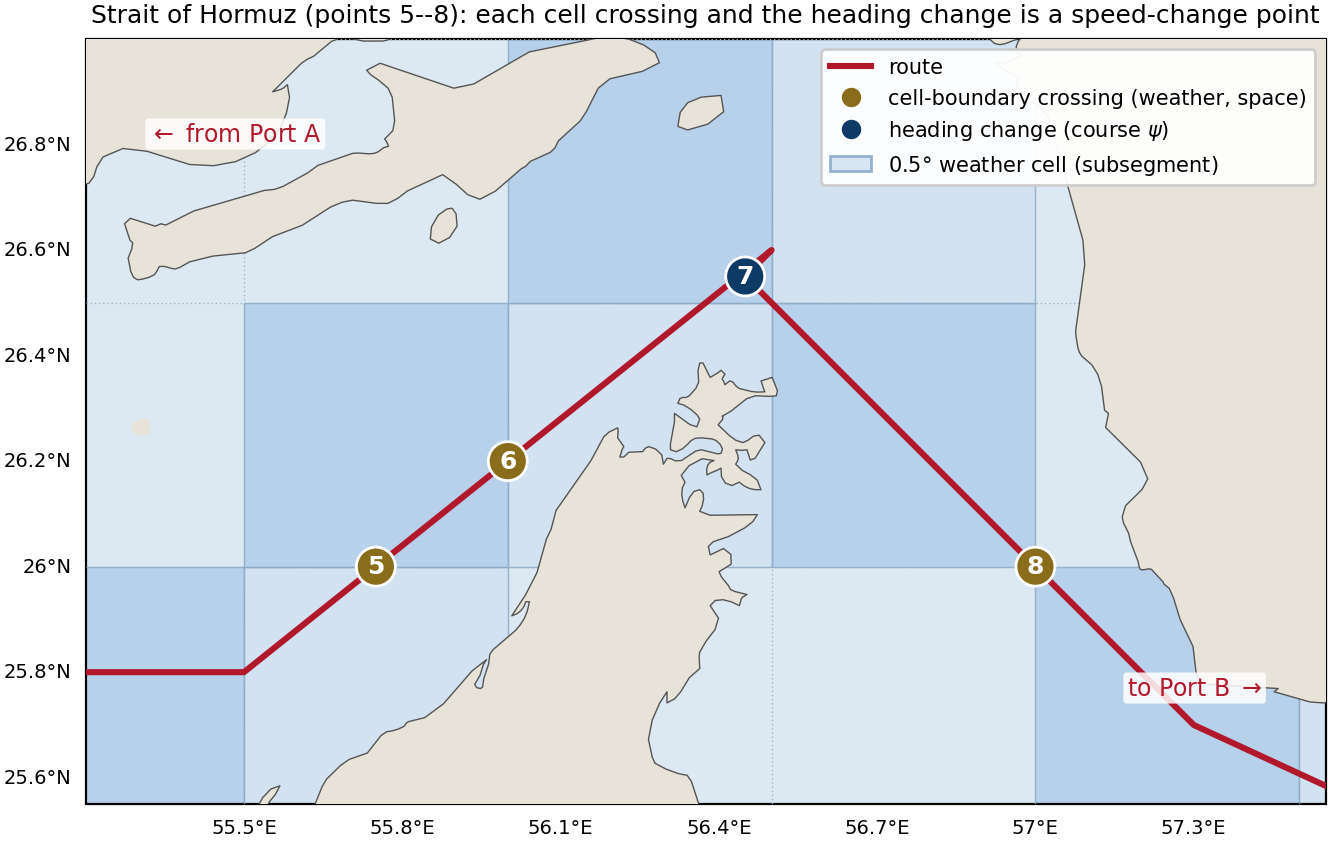
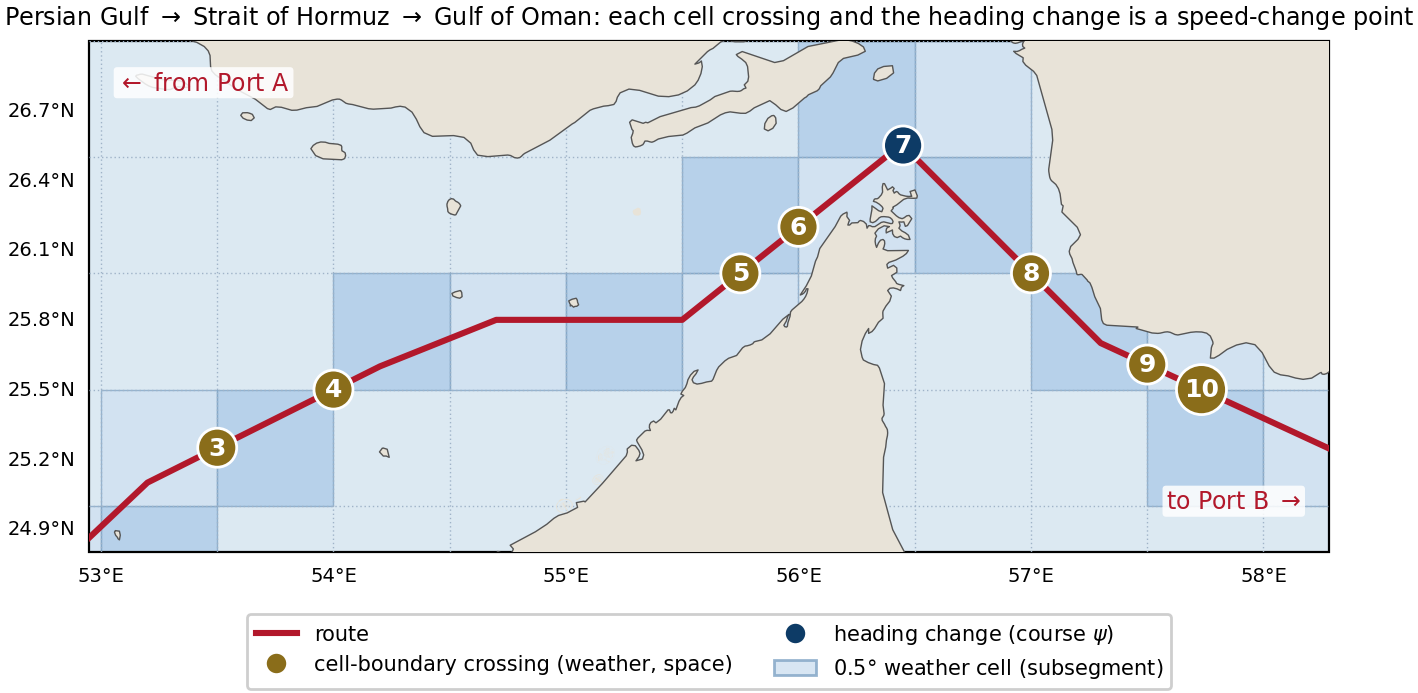
Figures: expand Strait-of-Hormuz zoom (points 3–10) + optF geographic twin
- route_cells_zoom: widen focus to points 3–10 (Persian Gulf → Strait of
  Hormuz → Gulf of Oman), legend moved below the map, title generalised.
- add plot_route_optf_twin -> route_optf_twin: alternative B — the same voyage
  as state_space_optF on a real basemap with all 10 points (cell, 6h-block,
  heading, arrival).

diff --git a/paper_workspace/figures/plot_route_optf_twin.py b/paper_workspace/figures/plot_route_optf_twin.py
@@ -1,0 +1,200 @@
+"""
+Geographic twin of state_space_optF: the SAME voyage on a real map.
+
+A two-leg illustrative voyage (one heading change) is drawn on a real
+Gulf-of-Oman basemap over the 0.5 deg weather-cell grid, and EVERY point that
+appears in state_space_optF is shown here too, with matching colours/order:
+  - cell-boundary crossings        (brown, weather changes in space)
+  - 6 h time-block positions       (blue, weather changes in time; placed from
+                                    the constant-speed schedule -> ship position
+                                    at t = 6, 12, 18, 24 h)
+  - the heading change             (navy, course psi, at the waypoint)
+  - start (Port A) and arrival     (black dot / red star)
+
+So the two panels correspond point-for-point: optF on the time-distance plane,
+this on the map. Legs are straight over open water (no sea-routing artifact).
+
+Run:  python3 plot_route_optf_twin.py
+Outputs: route_optf_twin.pdf, route_optf_twin.png
+"""
+
+from math import ceil, floor
+
+import numpy as np
+import matplotlib
+matplotlib.use("Agg")
+import matplotlib.pyplot as plt
+from matplotlib.lines import Line2D
+from matplotlib.patches import Patch
+import cartopy.crs as ccrs
+import cartopy.feature as cfeature
+
+# --- Illustrative two-leg voyage (lon, lat) over the Gulf of Oman -----------
+# Sized so each leg crosses exactly two 0.5 deg cell boundaries -> the same
+# 10 points as state_space_optF (4 cell + 4 time + heading + arrival).
+A = (57.60, 24.30)     # start (Port A)
+J = (58.35, 24.95)     # heading-change waypoint
+B = (58.95, 24.45)     # arrival (Port B)
+ROUTE = [A, J, B]
+T = 28.0
+TMARKS = [6, 12, 18, 24]
+CELL = 0.5
+WINDOW = (57.0, 59.7, 23.5, 25.8)
+
+LAND = "#e8e3d8"
+SEA = "#dce9f2"
+TRACK = "#b2182b"
+NAVY = "#0d3b66"
+CELLC = "#8a6d1a"
+TIMEC = "#3a6ea5"
+ARRC = "#c62828"
+TINT = ("#cfe0f1", "#abc9e8")
+
+
+def seg_len(p, q):
+    return ((p[0] - q[0]) ** 2 + (p[1] - q[1]) ** 2) ** 0.5
+
+
+seglens = [seg_len(ROUTE[i], ROUTE[i + 1]) for i in range(len(ROUTE) - 1)]
+total = sum(seglens)
+
+
+def pos_at_frac(f):
+    """Geographic (lon, lat) at fractional distance f in [0,1] along the route."""
+    d = f * total
+    for i, L in enumerate(seglens):
+        if d <= L or i == len(seglens) - 1:
+            t = d / L if L > 0 else 0
+            p, q = ROUTE[i], ROUTE[i + 1]
+            return (p[0] + t * (q[0] - p[0]), p[1] + t * (q[1] - p[1]))
+        d -= L
+    return ROUTE[-1]
+
+
+def cum_of(lon, lat):
+    """Cumulative distance of a point known to lie on the route polyline."""
+    acc = 0.0
+    for i, L in enumerate(seglens):
+        p, q = ROUTE[i], ROUTE[i + 1]
+        # project onto this segment; accept if close
+        vx, vy = q[0] - p[0], q[1] - p[1]
+        t = ((lon - p[0]) * vx + (lat - p[1]) * vy) / (vx * vx + vy * vy)
+        if -1e-6 <= t <= 1 + 1e-6:
+            px, py = p[0] + t * vx, p[1] + t * vy
+            if abs(px - lon) + abs(py - lat) < 1e-6:
+                return acc + t * L
+        acc += L
+    return acc
+
+
+def seg_crossings(p, q):
+    ts = []
+    if abs(q[0] - p[0]) > 1e-12:
+        for k in range(ceil(min(p[0], q[0]) / CELL), floor(max(p[0], q[0]) / CELL) + 1):
+            t = (k * CELL - p[0]) / (q[0] - p[0])
+            if 1e-6 < t < 1 - 1e-6:
+                ts.append(t)
+    if abs(q[1] - p[1]) > 1e-12:
+        for k in range(ceil(min(p[1], q[1]) / CELL), floor(max(p[1], q[1]) / CELL) + 1):
+            t = (k * CELL - p[1]) / (q[1] - p[1])
+            if 1e-6 < t < 1 - 1e-6:
+                ts.append(t)
+    return [(p[0] + t * (q[0] - p[0]), p[1] + t * (q[1] - p[1]))
+            for t in sorted(set(round(v, 6) for v in ts))]
+
+
+# --- Build all events -------------------------------------------------------
+events = []   # (cum, lon, lat, type, color)
+for i in range(len(ROUTE) - 1):
+    for (lo, la) in seg_crossings(ROUTE[i], ROUTE[i + 1]):
+        events.append((cum_of(lo, la), lo, la, "cell", CELLC))
+for tm in TMARKS:
+    lo, la = pos_at_frac(tm / T)
+    events.append((tm / T * total, lo, la, "time", TIMEC))
+events.append((seglens[0], J[0], J[1], "heading", NAVY))   # heading change at J
+
+# drop a cell crossing that coincides with the heading waypoint
+events = [e for e in events if e[3] == "heading"
+          or not (abs(e[1] - J[0]) < 0.06 and abs(e[2] - J[1]) < 0.06)]
+events.sort(key=lambda e: e[0])
+
+# --- Traversed cells --------------------------------------------------------
+samp = []
+for i in range(len(ROUTE) - 1):
+    n = max(1, int(seglens[i] / 0.02))
+    for t in range(n + 1):
+        f = t / n
+        samp.append((ROUTE[i][0] + f * (ROUTE[i + 1][0] - ROUTE[i][0]),
+                     ROUTE[i][1] + f * (ROUTE[i + 1][1] - ROUTE[i][1])))
+cells = sorted({(floor(lo / CELL), floor(la / CELL)) for lo, la in samp})
+
+# --- Plot -------------------------------------------------------------------
+lon0, lon1, lat0, lat1 = WINDOW
+fig = plt.figure(figsize=(8.2, 5.2))
+ax = plt.axes(projection=ccrs.PlateCarree())
+ax.set_extent(WINDOW, crs=ccrs.PlateCarree())
+ax.set_facecolor(SEA)
+ax.add_feature(cfeature.LAND.with_scale("10m"), facecolor=LAND, zorder=4, rasterized=True)
+ax.add_feature(cfeature.COASTLINE.with_scale("10m"), linewidth=0.5,
+               edgecolor="#555555", zorder=5, rasterized=True)
+
+for ci, cj in cells:
+    ax.add_patch(plt.Rectangle((ci * CELL, cj * CELL), CELL, CELL,
+                               transform=ccrs.PlateCarree(), facecolor=TINT[(ci + cj) % 2],
+                               edgecolor="#7fa3c4", lw=0.5, alpha=0.75, zorder=2.5))
+for x in np.arange(floor(lon0 / CELL) * CELL, lon1 + 1e-9, CELL):
+    ax.plot([x, x], [lat0, lat1], color="#9fb3c8", lw=0.5, ls=(0, (1, 2)),
+            transform=ccrs.PlateCarree(), zorder=2.6)
+for y in np.arange(floor(lat0 / CELL) * CELL, lat1 + 1e-9, CELL):
+    ax.plot([lon0, lon1], [y, y], color="#9fb3c8", lw=0.5, ls=(0, (1, 2)),
+            transform=ccrs.PlateCarree(), zorder=2.6)
+
+ax.plot([p[0] for p in ROUTE], [p[1] for p in ROUTE], "-", color=TRACK,
+        linewidth=2.2, transform=ccrs.PlateCarree(), zorder=6, solid_capstyle="round")
+
+# Numbered points (1..N in route order), then arrival as the last number
+for i, (_, lo, la, ty, c) in enumerate(events, start=1):
+    ax.text(lo, la, str(i), transform=ccrs.PlateCarree(), fontsize=8,
+            fontweight="bold", color="white", ha="center", va="center", zorder=8,
+            bbox=dict(boxstyle="circle,pad=0.22", fc=c, ec="white", lw=0.9))
+n_arr = len(events) + 1
+ax.plot(B[0], B[1], marker="*", color=ARRC, markersize=15, markeredgecolor="white",
+        markeredgewidth=0.8, transform=ccrs.PlateCarree(), zorder=9)
+ax.text(B[0], B[1], str(n_arr), transform=ccrs.PlateCarree(), fontsize=8,
+        fontweight="bold", color="white", ha="center", va="center", zorder=10)
+
+# Start
+ax.plot(A[0], A[1], "o", color="black", markersize=6, transform=ccrs.PlateCarree(), zorder=9)
+ax.text(A[0] - 0.1, A[1] - 0.18, "Port A — start", fontsize=8.5, transform=ccrs.PlateCarree(),
+        ha="left", va="top", zorder=9,
+        bbox=dict(boxstyle="round,pad=0.15", fc="white", ec="none", alpha=0.85))
+ax.text(B[0] + 0.1, B[1] + 0.12, "Port B", fontsize=8.5, transform=ccrs.PlateCarree(),
+        ha="left", va="center", color=ARRC, zorder=9,
+        bbox=dict(boxstyle="round,pad=0.15", fc="white", ec="none", alpha=0.85))
+
+gl = ax.gridlines(draw_labels=True, linewidth=0, alpha=0)
+gl.top_labels = False
+gl.right_labels = False
+gl.xlabel_style = {"size": 7}
+gl.ylabel_style = {"size": 7}
+
+ax.set_title("Geographic twin of the state space: each numbered point matches "
+             "state\\_space\\_optF", fontsize=9, pad=6)
+
+ax.legend(handles=[
+    Line2D([0], [0], color=TRACK, lw=2.2, label="route"),
+    Line2D([0], [0], marker="o", color=CELLC, lw=0, markersize=8, markeredgecolor="white",
+           label="cell-boundary crossing (weather, space)"),
+    Line2D([0], [0], marker="o", color=TIMEC, lw=0, markersize=8, markeredgecolor="white",
+           label="6 h block (weather, time)"),
+    Line2D([0], [0], marker="o", color=NAVY, lw=0, markersize=8, markeredgecolor="white",
+           label="heading change (course $\\psi$)"),
+    Line2D([0], [0], marker="*", color=ARRC, lw=0, markersize=11, markeredgecolor="white",
+           label="arrival (ETA)"),
+    Patch(facecolor=TINT[0], edgecolor="#7fa3c4", alpha=0.8, label="0.5$\\degree$ weather cell"),
+], loc="lower right", fontsize=7, frameon=True, framealpha=0.95)
+
+fig.savefig("route_optf_twin.pdf", dpi=300, bbox_inches="tight", pad_inches=0.02)
+fig.savefig("route_optf_twin.png", dpi=200, bbox_inches="tight", pad_inches=0.02)
+print(f"wrote route_optf_twin.* ({len(events)} numbered crossings + arrival = {len(events)+1}, "
+      f"{len(cells)} cells)")

diff --git a/paper_workspace/figures/plot_route_cells_zoom.py b/paper_workspace/figures/plot_route_cells_zoom.py
@@ -115,9 +115,10 @@ def arc_of(la, lo):
     return best
 events.sort(key=lambda e: arc_of(e[0], e[1]))
 
-# Focus on a few consecutive points (5-8: the Strait of Hormuz cluster) and zoom
-# the display window tightly around them, keeping their original numbers.
-FOCUS = {5, 6, 7, 8}
+# Focus on a span of consecutive points around the heading change (Strait of
+# Hormuz) and zoom the display window tightly around them, keeping their
+# original numbers.
+FOCUS = {3, 4, 5, 6, 7, 8, 9, 10}
 focus = [(i, la, lo, ty) for i, (la, lo, ty) in enumerate(events, start=1) if i in FOCUS]
 _flo = [lo for _, _, lo, _ in focus]
 _fla = [la for _, la, _, _ in focus]
@@ -184,8 +185,9 @@ gl.right_labels = False
 gl.xlabel_style = {"size": 7}
 gl.ylabel_style = {"size": 7}
 
-ax.set_title("Strait of Hormuz (points 5--8): each cell crossing and the "
-             "heading change is a speed-change point", fontsize=9, pad=6)
+ax.set_title("Persian Gulf $\\to$ Strait of Hormuz $\\to$ Gulf of Oman: each cell "
+             "crossing and the heading change is a speed-change point",
+             fontsize=8.6, pad=6)
 
 ax.legend(handles=[
     Line2D([0], [0], color=TRACK, lw=2.2, label="route"),
@@ -195,7 +197,8 @@ ax.legend(handles=[
            markeredgecolor="white", label="heading change (course $\\psi$)"),
     Patch(facecolor=TINT[0], edgecolor="#7fa3c4", alpha=0.8,
           label="0.5$\\degree$ weather cell (subsegment)"),
-], loc="upper right", fontsize=7.5, frameon=True, framealpha=0.95)
+], loc="upper center", bbox_to_anchor=(0.5, -0.10), ncol=2, fontsize=7.5,
+   frameon=True, framealpha=0.95)
 
 fig.savefig("route_cells_zoom.pdf", dpi=300, bbox_inches="tight", pad_inches=0.02)
 fig.savefig("route_cells_zoom.png", dpi=200, bbox_inches="tight", pad_inches=0.02)